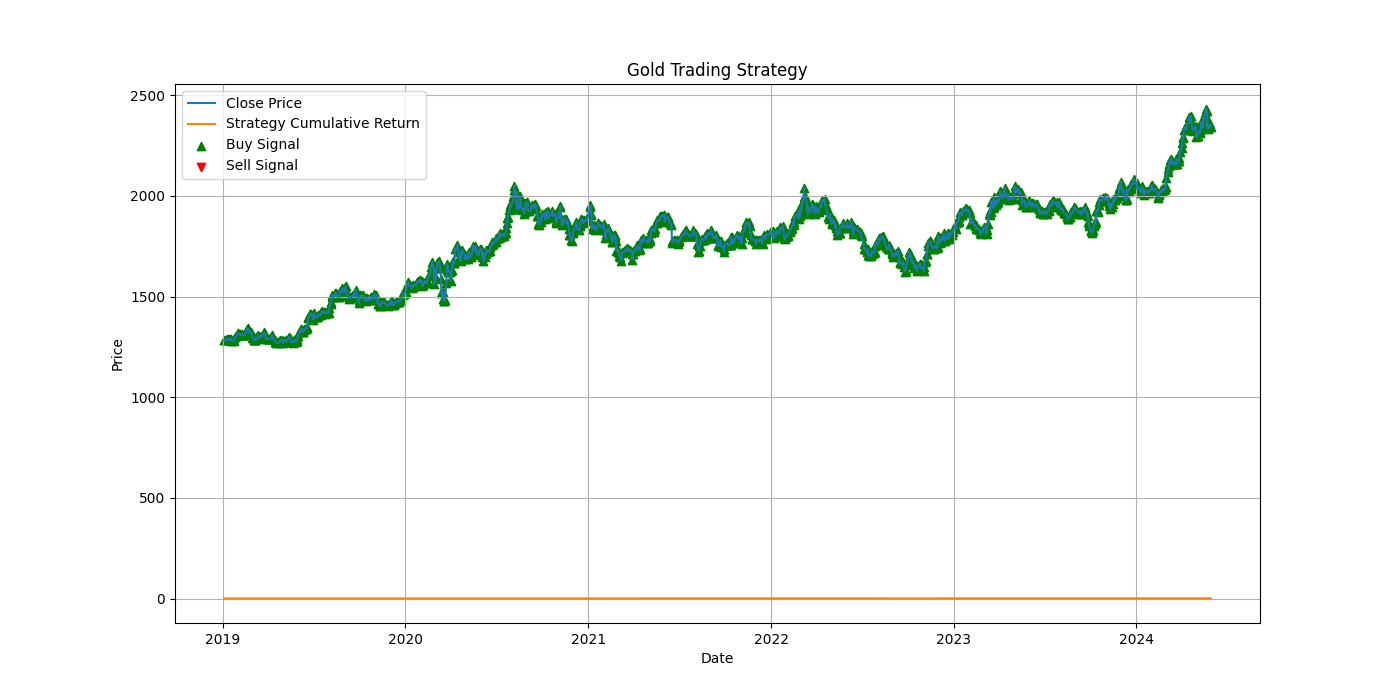
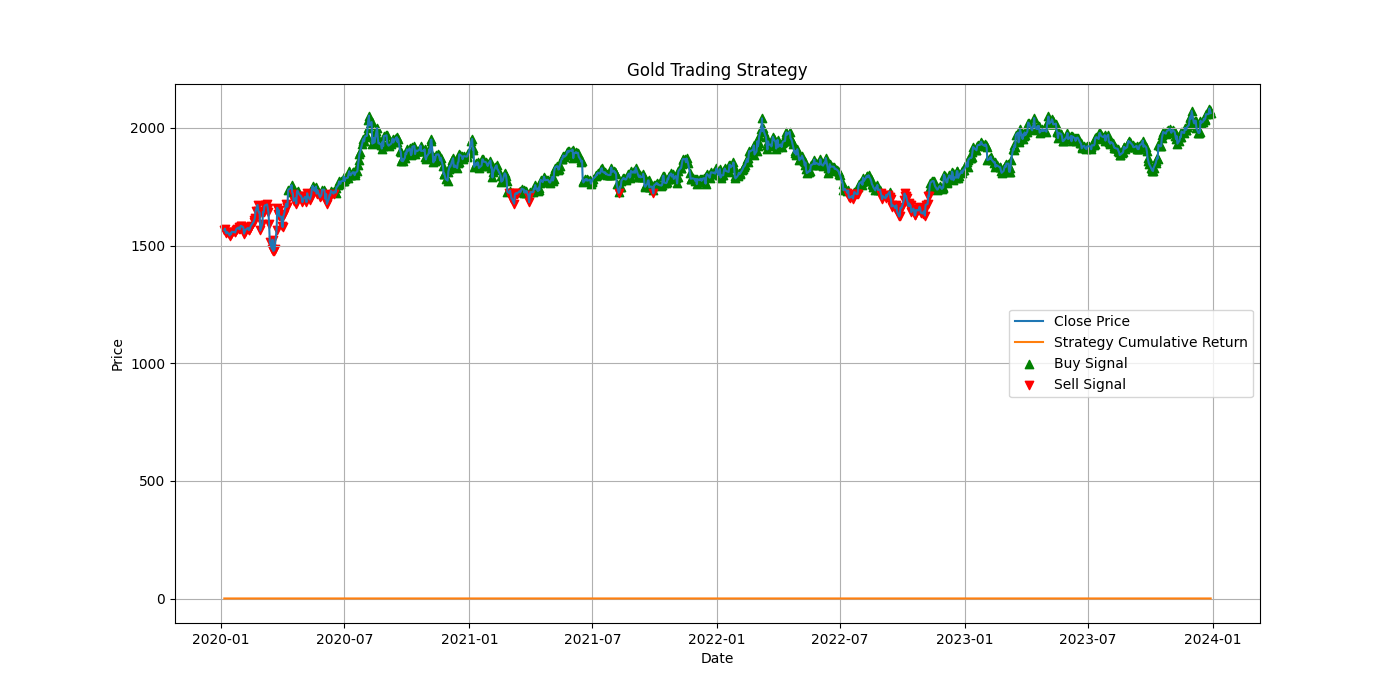
v1.49 update trading strategy

diff --git a/trading_bot.py b/trading_bot.py
@@ -11,27 +11,29 @@ data = yf.download('GC=F', start='2019-01-01', end='2024-05-30')
 data['SMA50'] = data['Close'].rolling(window=50).mean()
 data['SMA200'] = data['Close'].rolling(window=200).mean()
 
+# 計算壓力位（SMA200）
+data['Resistance'] = data['SMA200']
+
 # 計算區間
 data['Range'] = data['High'] - data['Low']
 
-# 生成交易信號
-data['Signal'] = np.where((data['SMA50'] > data['SMA200']) & (data['Range'] >= 1.5 * data['Range'].rolling(window=50).mean()), 1, 0)
-data['Signal'] = data['Signal'].shift(1)
+# 日內波交易策略
+# 生成交易信號：只要趨勢往上就做多，前提是在壓力之上
+data['Signal'] = np.where((data['Close'] > data['Resistance']) &
+                          (data['Close'].pct_change().rolling(window=5).mean() > 0), 1, 0)
 
 # 處理缺失值
 data.dropna(inplace=True)
 
 # 計算策略收益率
 data['Return'] = data['Close'].pct_change()
-data['Strategy_Return'] = data['Signal'] * data['Return']
-
-# 計算累積收益
+data['Strategy_Return'] = data['Signal'].shift(1) * data['Return']
 cumulative_return = (data['Strategy_Return'] + 1).cumprod()
 final_cumulative_return = cumulative_return.iloc[-1]
 
-# 生成交易點位
-buy_signals = data[data['Signal'] == 1].index
-sell_signals = data[data['Signal'] == 0].index
+# 生成交易點位，只顯示3筆
+buy_signals = data[data['Signal'] == 1].index[:3]
+sell_signals = data[data['Signal'] == 0].index[:3]
 
 # 生成交互式圖表
 fig = go.Figure(data=[go.Candlestick(x=data.index,
@@ -45,7 +47,7 @@ fig = go.Figure(data=[go.Candlestick(x=data.index,
                       go.Scatter(x=sell_signals, y=data.loc[sell_signals]['High'], mode='markers', name='Sell Signal',
                                  marker=dict(color='red', size=10, symbol='triangle-down'))])
 
-fig.update_layout(title='Gold Trading Strategy (ICT Strategy)', xaxis_title='Date', yaxis_title='Price', showlegend=True)
+fig.update_layout(title='Gold Trading Strategy (Intraday Wave Trading)', xaxis_title='Date', yaxis_title='Price', showlegend=True)
 
 # 生成HTML內容
 html_content = f"""
